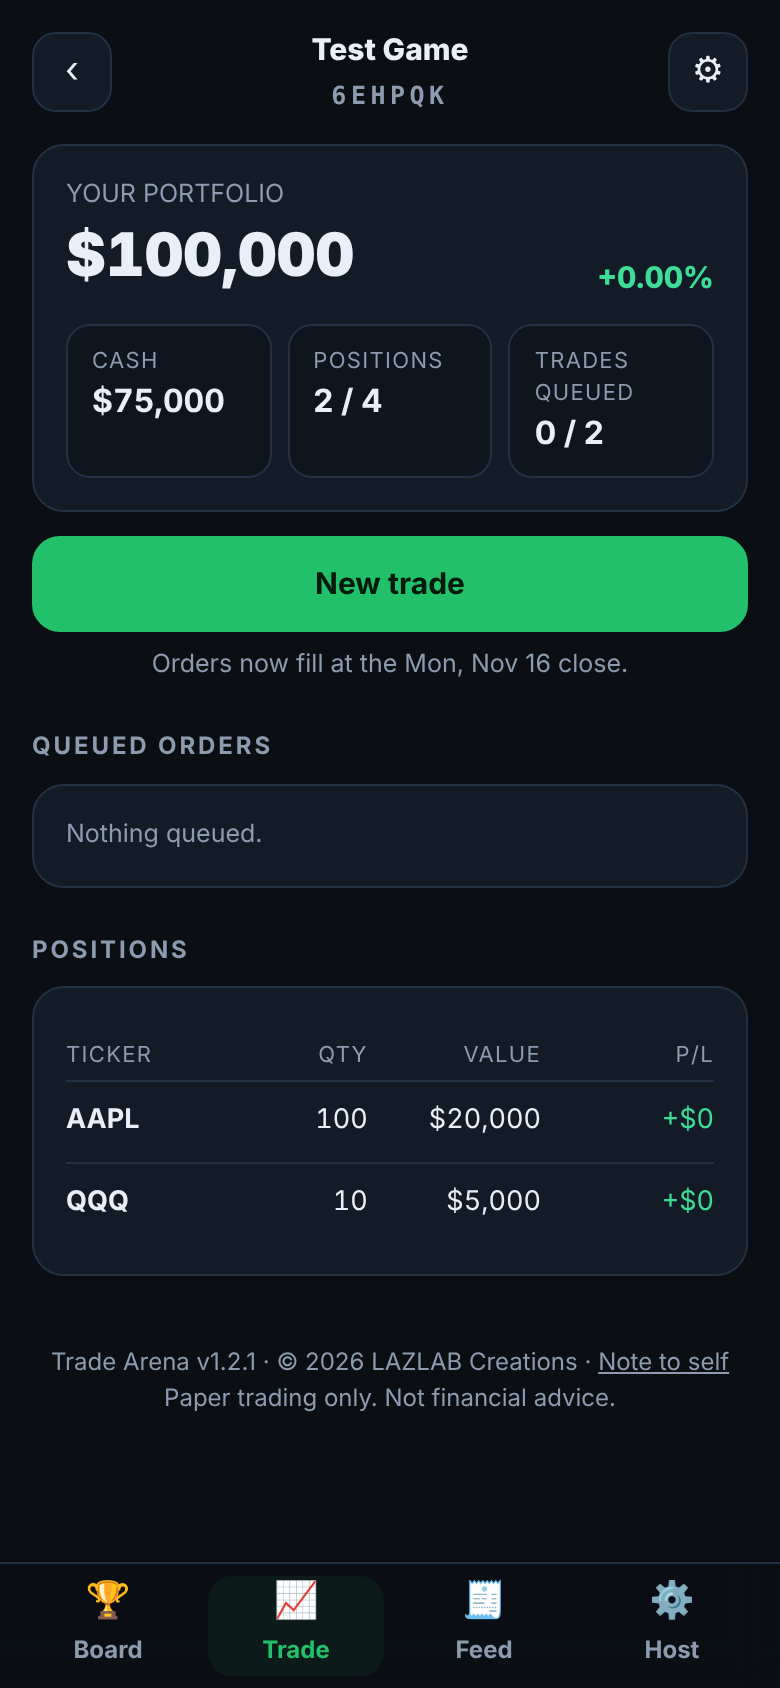
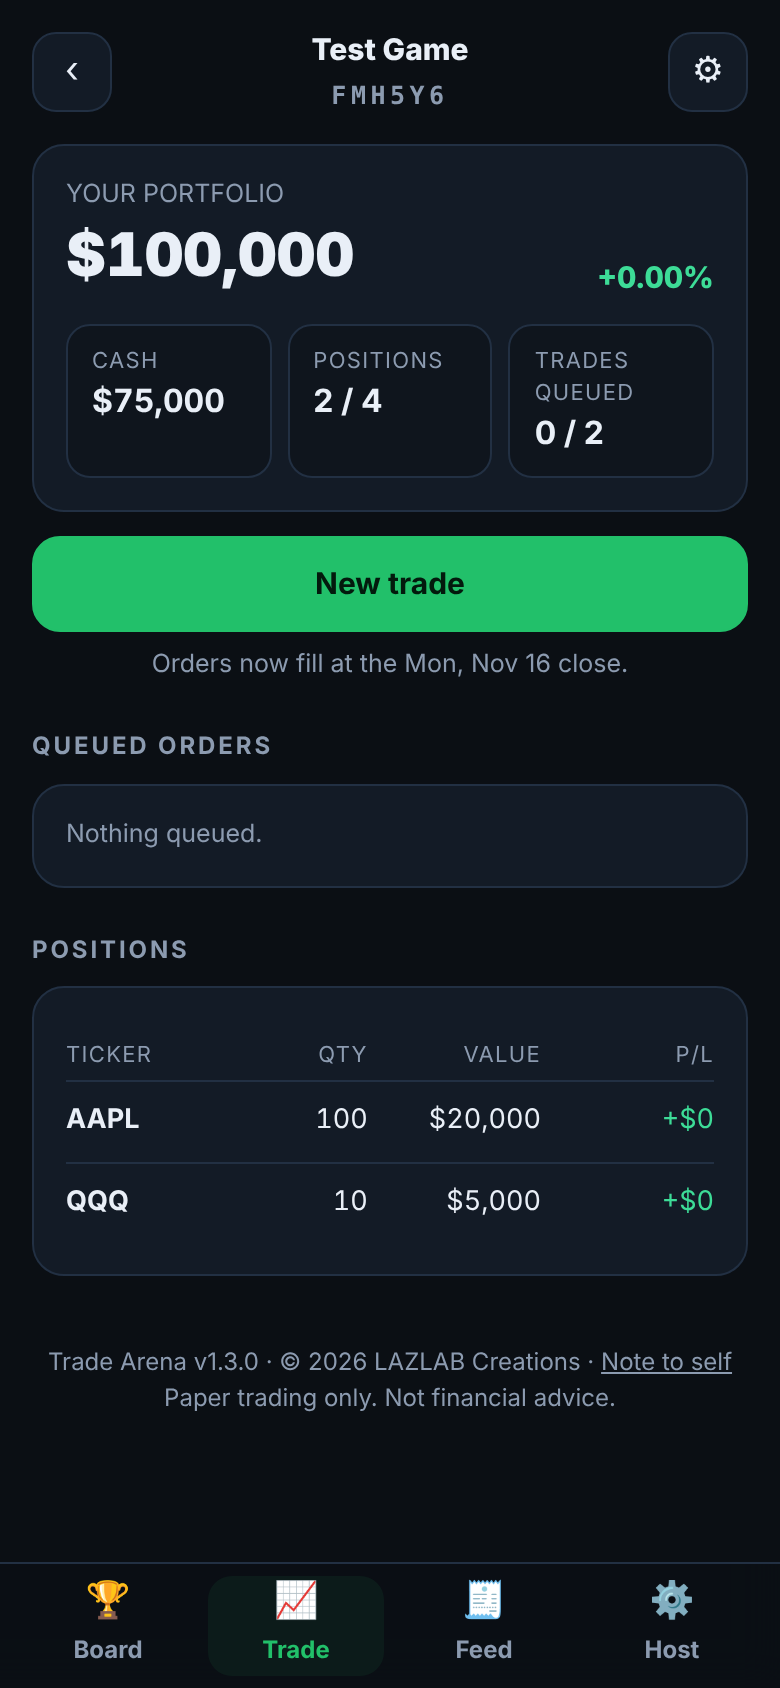
Live estimates on Trade tab (v1.3.0)
Claude-Session: https://claude.ai/code/session_01XbY6KJrmjtQR5KoU1WCBFq

diff --git a/app/index.html b/app/index.html
@@ -250,7 +250,7 @@ function retPct(eq, base) { return (eq / base - 1) * 100; }
 // ══════════════════════════════════════════
 //  HELPERS + MARKET DATA
 // ══════════════════════════════════════════
-const APP_VERSION = '1.2.1';
+const APP_VERSION = '1.3.0';
 const $ = (s, r) => (r || document).querySelector(s);
 const esc = s => String(s == null ? '' : s).replace(/[&<>"']/g, c => ({ '&': '&amp;', '<': '&lt;', '>': '&gt;', '"': '&quot;', "'": '&#39;' }[c]));
 const lsGet = (k, d) => { try { const v = localStorage.getItem(k); return v == null ? d : JSON.parse(v); } catch (e) { return d; } };
@@ -1164,7 +1164,10 @@ function tabTrade() {
   h += '<div class="sec">Queued orders</div>';
   if (!pend.length) h += '<div class="card mut small">Nothing queued.</div>';
   else {
-    h += '<div class="card">' + pend.map(o => { const fdo = fillDayFor(typeof o.ts === 'number' ? o.ts : Date.now()); return '<div class="fillrow"><span class="tag ' + o.s + '">' + o.s.toUpperCase() + '</span><span><b>' + o.q + ' ' + esc(o.t) + '</b> <span class="mut small">· ' + dayLabel(fdo) + ' close</span>' + (o.n ? '<div class="mut small">' + esc(o.n) + '</div>' : '') + '</span><button class="btn sm" data-act="cancelOrder" data-id="' + esc(o.id) + '">Cancel</button></div>'; }).join('') + '</div>';
+    let qpl = 0, qn = 0;
+    const live = o => { const L = liveOf(o.t); if (L == null) return ''; let t = ' <span class="mut small">· now ' + money(L) + '</span>'; if (o.p > 0) { const d = (o.s === 'buy' ? L - o.p : o.p - L) * o.q; qpl += d; qn++; t += ' <span class="small ' + (d >= 0 ? 'up' : 'dn') + '">' + (d >= 0 ? '+' : '') + money0(d) + ' since placed</span>'; } return t; };
+    const rowsQ = pend.map(o => { const fdo = fillDayFor(typeof o.ts === 'number' ? o.ts : Date.now()); return '<div class="fillrow"><span class="tag ' + o.s + '">' + o.s.toUpperCase() + '</span><span><b>' + o.q + ' ' + esc(o.t) + '</b> <span class="mut small">· ' + dayLabel(fdo) + ' close</span><div>' + live(o) + '</div>' + (o.n ? '<div class="mut small">' + esc(o.n) + '</div>' : '') + '</span><button class="btn sm" data-act="cancelOrder" data-id="' + esc(o.id) + '">Cancel</button></div>'; }).join('');
+    h += '<div class="card">' + (qn ? '<div class="row sp small" style="padding-bottom:6px"><span class="mut">Live estimate if filled now</span><b class="num ' + (qpl >= 0 ? 'up' : 'dn') + '">' + (qpl >= 0 ? '+' : '') + money0(qpl) + '</b></div>' : '') + rowsQ + '<div class="mut small" style="margin-top:6px">Estimate only. Real fills happen at the close.</div></div>';
     if (S.game.mode !== 'fb') h += '<button class="btn block" style="margin-top:10px" data-act="cardSheet">Share as trade card…</button>';
   }
   h += '<div class="sec">Positions</div>';
@@ -1293,7 +1296,8 @@ async function placeOrder() {
   const o = { s: TR.side, t: TR.d.t, q, n: ($('#t-n').value || '').trim().slice(0, 100) };
   const err = checkClient(o);
   if (err) { msg.innerHTML = '<div class="note bad">' + esc(err) + '</div>'; return; }
-  await W.set('orders/' + ME() + '/' + newId(), { s: o.s, t: o.t, q: o.q, n: o.n, ts: NOW() });
+  const ord = { s: o.s, t: o.t, q: o.q, n: o.n, ts: NOW() }; if (TR.d && TR.d.last > 0) ord.p = Math.round(TR.d.last * 100) / 100;
+  await W.set('orders/' + ME() + '/' + newId(), ord);
   closeSheet(); toast((o.s === 'buy' ? 'Buy ' : 'Sell ') + o.q + ' ' + o.t + ' queued'); S.tab = 'trade'; sched();
 }
 
@@ -1328,6 +1332,23 @@ function openPlayerSheet(pid) {
     '<div class="card" style="margin-top:12px">' + (rows.length ? rows.map(x => { const pl = x.v - x.c; return '<div class="row sp" style="padding:7px 0"><span><b>' + esc(x.t) + '</b> <span class="mut small">' + x.q + ' sh @ ' + money(x.c / x.q) + ' avg</span></span><span class="num" style="text-align:right">' + money0(x.v) + '<div class="small ' + (pl >= 0 ? 'up' : 'dn') + '">' + (pl >= 0 ? '+' : '') + money0(pl) + ' (' + pctTxt(retPct(x.v, x.c)) + ')</div></span></div>'; }).join('') : '<div class="mut small">All cash, no positions.</div>') + '</div>');
 }
 
+// ── live prices for the Trade tab (positions + queued tickers), refreshed while it is open ──
+function liveOf(t) { const c = barCache[t]; return c && c.data && c.data.last > 0 ? c.data.last : null; }
+let liveBusy = false;
+async function liveRefresh() {
+  if (liveBusy || S.view !== 'game' || S.tab !== 'trade' || document.hidden) return;
+  const m = META(); if (!m || m.status !== 'active' || !S.G.players[ME()]) return;
+  const ts = new Set(Object.keys(myPortfolio().pos)); pendingFor(ME()).forEach(o => ts.add(o.t));
+  if (!ts.size) return;
+  liveBusy = true;
+  try {
+    const before = JSON.stringify([...ts].map(liveOf));
+    await Promise.all([...ts].map(t => getBars(t).catch(() => null)));
+    if (JSON.stringify([...ts].map(liveOf)) !== before && S.tab === 'trade' && !$('#sheet-root.on')) sched();
+  } finally { liveBusy = false; }
+}
+setInterval(liveRefresh, 60000);
+
 // ══════════════════════════════════════════
 //  ACTIONS — every data-act button lands here
 // ══════════════════════════════════════════
@@ -1335,7 +1356,7 @@ const ACT = {
   home() { leaveGame(); S.view = 'home'; sched(); },
   settings() { openSettings(); },
   closeSheet() { closeSheet(); },
-  tab(el) { S.tab = el.dataset.v; sched(); window.scrollTo(0, 0); },
+  tab(el) { S.tab = el.dataset.v; sched(); window.scrollTo(0, 0); liveRefresh(); },
   newGame() { S.view = 'create'; sched(); },
   joinSheet() { openJoin(); },
   openGame(el) { const g = gamesList()[+el.dataset.i]; if (g) guard(() => openGame(g)); },

diff --git a/src/60_gameui.js b/src/60_gameui.js
@@ -122,7 +122,10 @@ function tabTrade() {
   h += '<div class="sec">Queued orders</div>';
   if (!pend.length) h += '<div class="card mut small">Nothing queued.</div>';
   else {
-    h += '<div class="card">' + pend.map(o => { const fdo = fillDayFor(typeof o.ts === 'number' ? o.ts : Date.now()); return '<div class="fillrow"><span class="tag ' + o.s + '">' + o.s.toUpperCase() + '</span><span><b>' + o.q + ' ' + esc(o.t) + '</b> <span class="mut small">· ' + dayLabel(fdo) + ' close</span>' + (o.n ? '<div class="mut small">' + esc(o.n) + '</div>' : '') + '</span><button class="btn sm" data-act="cancelOrder" data-id="' + esc(o.id) + '">Cancel</button></div>'; }).join('') + '</div>';
+    let qpl = 0, qn = 0;
+    const live = o => { const L = liveOf(o.t); if (L == null) return ''; let t = ' <span class="mut small">· now ' + money(L) + '</span>'; if (o.p > 0) { const d = (o.s === 'buy' ? L - o.p : o.p - L) * o.q; qpl += d; qn++; t += ' <span class="small ' + (d >= 0 ? 'up' : 'dn') + '">' + (d >= 0 ? '+' : '') + money0(d) + ' since placed</span>'; } return t; };
+    const rowsQ = pend.map(o => { const fdo = fillDayFor(typeof o.ts === 'number' ? o.ts : Date.now()); return '<div class="fillrow"><span class="tag ' + o.s + '">' + o.s.toUpperCase() + '</span><span><b>' + o.q + ' ' + esc(o.t) + '</b> <span class="mut small">· ' + dayLabel(fdo) + ' close</span><div>' + live(o) + '</div>' + (o.n ? '<div class="mut small">' + esc(o.n) + '</div>' : '') + '</span><button class="btn sm" data-act="cancelOrder" data-id="' + esc(o.id) + '">Cancel</button></div>'; }).join('');
+    h += '<div class="card">' + (qn ? '<div class="row sp small" style="padding-bottom:6px"><span class="mut">Live estimate if filled now</span><b class="num ' + (qpl >= 0 ? 'up' : 'dn') + '">' + (qpl >= 0 ? '+' : '') + money0(qpl) + '</b></div>' : '') + rowsQ + '<div class="mut small" style="margin-top:6px">Estimate only. Real fills happen at the close.</div></div>';
     if (S.game.mode !== 'fb') h += '<button class="btn block" style="margin-top:10px" data-act="cardSheet">Share as trade card…</button>';
   }
   h += '<div class="sec">Positions</div>';
@@ -251,7 +254,8 @@ async function placeOrder() {
   const o = { s: TR.side, t: TR.d.t, q, n: ($('#t-n').value || '').trim().slice(0, 100) };
   const err = checkClient(o);
   if (err) { msg.innerHTML = '<div class="note bad">' + esc(err) + '</div>'; return; }
-  await W.set('orders/' + ME() + '/' + newId(), { s: o.s, t: o.t, q: o.q, n: o.n, ts: NOW() });
+  const ord = { s: o.s, t: o.t, q: o.q, n: o.n, ts: NOW() }; if (TR.d && TR.d.last > 0) ord.p = Math.round(TR.d.last * 100) / 100;
+  await W.set('orders/' + ME() + '/' + newId(), ord);
   closeSheet(); toast((o.s === 'buy' ? 'Buy ' : 'Sell ') + o.q + ' ' + o.t + ' queued'); S.tab = 'trade'; sched();
 }
 
@@ -285,3 +289,20 @@ function openPlayerSheet(pid) {
     '<div class="kpis" style="margin-top:12px"><div class="kpi"><small>Total</small><b class="num">' + money0(tot) + '</b></div><div class="kpi"><small>Cash</small><b class="num">' + money0(pf.cash) + '</b></div><div class="kpi"><small>Invested</small><b class="num">' + (tot ? Math.round(inv / tot * 100) : 0) + '%</b></div></div>' +
     '<div class="card" style="margin-top:12px">' + (rows.length ? rows.map(x => { const pl = x.v - x.c; return '<div class="row sp" style="padding:7px 0"><span><b>' + esc(x.t) + '</b> <span class="mut small">' + x.q + ' sh @ ' + money(x.c / x.q) + ' avg</span></span><span class="num" style="text-align:right">' + money0(x.v) + '<div class="small ' + (pl >= 0 ? 'up' : 'dn') + '">' + (pl >= 0 ? '+' : '') + money0(pl) + ' (' + pctTxt(retPct(x.v, x.c)) + ')</div></span></div>'; }).join('') : '<div class="mut small">All cash, no positions.</div>') + '</div>');
 }
+
+// ── live prices for the Trade tab (positions + queued tickers), refreshed while it is open ──
+function liveOf(t) { const c = barCache[t]; return c && c.data && c.data.last > 0 ? c.data.last : null; }
+let liveBusy = false;
+async function liveRefresh() {
+  if (liveBusy || S.view !== 'game' || S.tab !== 'trade' || document.hidden) return;
+  const m = META(); if (!m || m.status !== 'active' || !S.G.players[ME()]) return;
+  const ts = new Set(Object.keys(myPortfolio().pos)); pendingFor(ME()).forEach(o => ts.add(o.t));
+  if (!ts.size) return;
+  liveBusy = true;
+  try {
+    const before = JSON.stringify([...ts].map(liveOf));
+    await Promise.all([...ts].map(t => getBars(t).catch(() => null)));
+    if (JSON.stringify([...ts].map(liveOf)) !== before && S.tab === 'trade' && !$('#sheet-root.on')) sched();
+  } finally { liveBusy = false; }
+}
+setInterval(liveRefresh, 60000);

diff --git a/test/e2e.js b/test/e2e.js
@@ -67,6 +67,8 @@ function yahoo(t) {
   await page.fill('#t-q', '100'); await page.fill('#t-n', 'big tech');
   await page.click('[data-act=placeOrder]'); await page.waitForTimeout(300);
   ok(await page.locator('text=100 AAPL').count() >= 1, 'order queued');
+  await page.waitForTimeout(500);
+  ok(await page.locator('text=since placed').count() >= 1, 'queued order shows live gain/loss since placed');
   // second order, then third should hit the 2/day cap
   await page.click('[data-act=newTrade]'); await page.fill('#t-tk', 'QQQ'); await page.click('[data-act=lookup]'); await page.waitForSelector('#t-info b'); await page.fill('#t-q', '10'); await page.click('[data-act=placeOrder]'); await page.waitForTimeout(200);
   await page.click('[data-act=newTrade]'); await page.fill('#t-tk', 'NVDA'); await page.click('[data-act=lookup]'); await page.waitForSelector('#t-info b'); await page.fill('#t-q', '5'); await page.click('[data-act=placeOrder]');

diff --git a/src/20_data.js b/src/20_data.js
@@ -1,7 +1,7 @@
 // ══════════════════════════════════════════
 //  HELPERS + MARKET DATA
 // ══════════════════════════════════════════
-const APP_VERSION = '1.2.1';
+const APP_VERSION = '1.3.0';
 const $ = (s, r) => (r || document).querySelector(s);
 const esc = s => String(s == null ? '' : s).replace(/[&<>"']/g, c => ({ '&': '&amp;', '<': '&lt;', '>': '&gt;', '"': '&quot;', "'": '&#39;' }[c]));
 const lsGet = (k, d) => { try { const v = localStorage.getItem(k); return v == null ? d : JSON.parse(v); } catch (e) { return d; } };

diff --git a/src/70_actions.js b/src/70_actions.js
@@ -5,7 +5,7 @@ const ACT = {
   home() { leaveGame(); S.view = 'home'; sched(); },
   settings() { openSettings(); },
   closeSheet() { closeSheet(); },
-  tab(el) { S.tab = el.dataset.v; sched(); window.scrollTo(0, 0); },
+  tab(el) { S.tab = el.dataset.v; sched(); window.scrollTo(0, 0); liveRefresh(); },
   newGame() { S.view = 'create'; sched(); },
   joinSheet() { openJoin(); },
   openGame(el) { const g = gamesList()[+el.dataset.i]; if (g) guard(() => openGame(g)); },

diff --git a/app/sw.js b/app/sw.js
@@ -1,5 +1,5 @@
 // Trade Arena service worker: app shell offline, never caches prices, Firebase, or Groq.
-const CACHE = 'trade-arena-v1.2.1';
+const CACHE = 'trade-arena-v1.3.0';
 const SHELL = ['./', 'index.html', 'manifest.json', 'icon-192.png', 'icon-512.png'];
 const LIBS = ['www.gstatic.com', 'cdnjs.cloudflare.com'];
 self.addEventListener('install', e => { e.waitUntil(caches.open(CACHE).then(c => c.addAll(SHELL)).then(() => self.skipWaiting())); });

diff --git a/README.md b/README.md
@@ -99,6 +99,7 @@ Run `./build.sh` to rebuild `app/index.html` from `src/`, `node test/engine.test
 
 ## Changelog
 
+- **1.3.0**: live estimates on the Trade tab: queued orders show the current price and gain/loss since placed, positions use live prices (refreshed every minute while open).
 - **1.2.1**: the trade card button only shows in offline games (online players log their own orders).
 - **1.2.0**: tap any player on the leaderboard to see their holdings (as of the last close).
 - **1.1.1**: trade card email goes to lazlab.io@gmail.com; Host tab lists every human player's queued orders.
